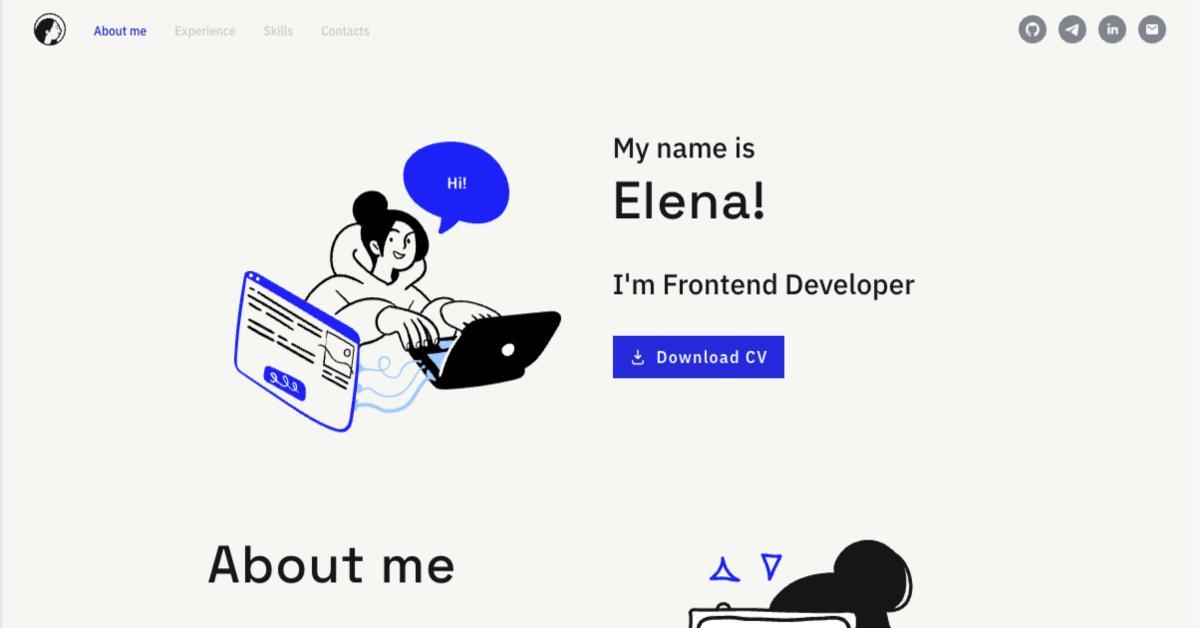
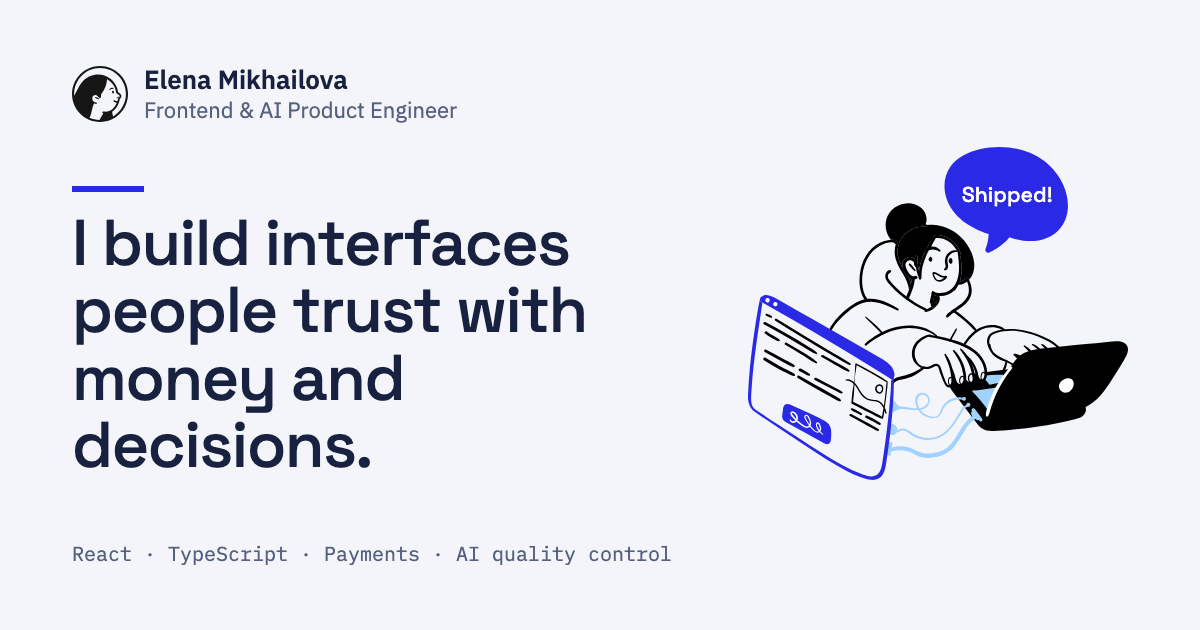
Refresh social preview image and rewrite README
- New 1200×630 Open Graph image matching the current hero
- Bump og:image cache key and fix its height
- README: live link, preview, stack, structure, key decisions and scripts

diff --git a/index.html b/index.html
@@ -27,11 +27,11 @@
     />
     <meta
       property="og:image"
-      content="https://personal-website-flame-one.vercel.app/og-image.png?v=2"
+      content="https://personal-website-flame-one.vercel.app/og-image.png?v=3"
     />
     <meta property="og:image:type" content="image/png" />
     <meta property="og:image:width" content="1200" />
-    <meta property="og:image:height" content="628" />
+    <meta property="og:image:height" content="630" />
     <meta property="og:image:alt" content="Elena Mikhailova — Frontend &amp; AI Product Engineer" />
     <meta name="twitter:card" content="summary_large_image" />
   </head>

diff --git a/README.md b/README.md
@@ -1,45 +1,51 @@
-# Personal Website — Elena Mikhailova
+# Elena Mikhailova — Frontend & AI Product Engineer
 
-Single-page personal website (business card) of Elena Mikhailova, Frontend Developer.
+Personal portfolio site: selected work, experience, skills and contacts on a single page.
 
-🔗 **Live:** <https://personal-website-flame-one.vercel.app/>
+**Live:** <https://personal-website-flame-one.vercel.app/>
 
-## Tech stack
+![Site preview](public/og-image.png)
 
-- **React 19** + **TypeScript**
-- **Vite**
-- **SCSS** — mobile-first, design tokens, BEM
-- **ESLint / Prettier / Stylelint**
+## Stack
+
+- React 19, TypeScript (strict)
+- Vite
+- SCSS with design tokens and BEM
+- ESLint, Stylelint, Prettier
+- Deployed on Vercel
 
 ## Project structure
 
-- `src/components` — reusable UI components
-- `src/sections` — page sections
-- `src/layout` — page layout, header and footer
-- `src/hooks` — reusable interaction logic
-- `src/data` — navigation, contacts and content data
+```text
+src/
+  components/  reusable UI: action link, burger, education, nav, section, social links, title, work card
+  sections/    page sections: hero, work, experience, skills, about, contacts
+  layout/      page shell: header, footer, skip link
+  data/        site content and its types
+  hooks/       scrollspy and dismiss-on-outside-click / Escape
+  styles/      tokens, base styles, breakpoints and mixins
+  utils/       scroll handling on first load and reload
+```
 
+## How it is built
 
-## Highlights
-
-- Responsive, mobile-first layout (mobile → tablet → desktop)
-- Accessibility-focused: semantic HTML, full keyboard navigation, `:focus-visible`, `aria-current`
-- Scrollspy navigation on native anchor scrolling — no router, no scroll libraries
-- No UI kits: hand-written components and custom hooks (`useActiveSection`, `useDismiss`)
+- **Content as typed data.** All copy lives in `src/data/data.ts` and is typed in `src/data/type.ts`. Sections only render data, so text changes never touch components.
+- **Design system in SCSS.** Colors, type sizes, spacing, control heights and motion come from CSS custom properties in `src/styles/tokens.scss`. Buttons, text links, labels and lists share mixins. Base section styles sit in a cascade layer, so section overrides do not depend on import order.
+- **No UI kit, router or scroll library.** The scrollspy reads section positions on scroll with `requestAnimationFrame`. Sections fade in once via `IntersectionObserver`. Shared links like `/#work` land on their section, and a reload always starts from the top.
+- **Accessibility.** Skip link, one visible focus style, a keyboard-friendly mobile menu that returns focus on Escape, `aria-current` in navigation, WCAG AA contrast, touch targets of at least 40 px and `prefers-reduced-motion` support.
+- **Strict tooling.** TypeScript runs with `strict` and `noUncheckedIndexedAccess`. Stylelint enforces BEM class names and alphabetical properties. ESLint sorts imports.
 
 ## Getting started
 
 ```bash
-npm install      # install dependencies
-npm run dev      # start dev server
-npm run build    # production build
-npm run preview  # preview the production build locally
-
+npm install
+npm run dev
 ```
 
-## Quality checks
-
-```bash
-npm run check
-npm run build
-npm run preview
+| Command             | What it does                                    |
+| ------------------- | ----------------------------------------------- |
+| `npm run dev`       | Start the dev server                            |
+| `npm run build`     | Type-check and build for production             |
+| `npm run preview`   | Serve the production build locally              |
+| `npm run check`     | Prettier, TypeScript, ESLint and Stylelint      |
+| `npm run fix`       | Auto-fix formatting, lint and style issues      |
